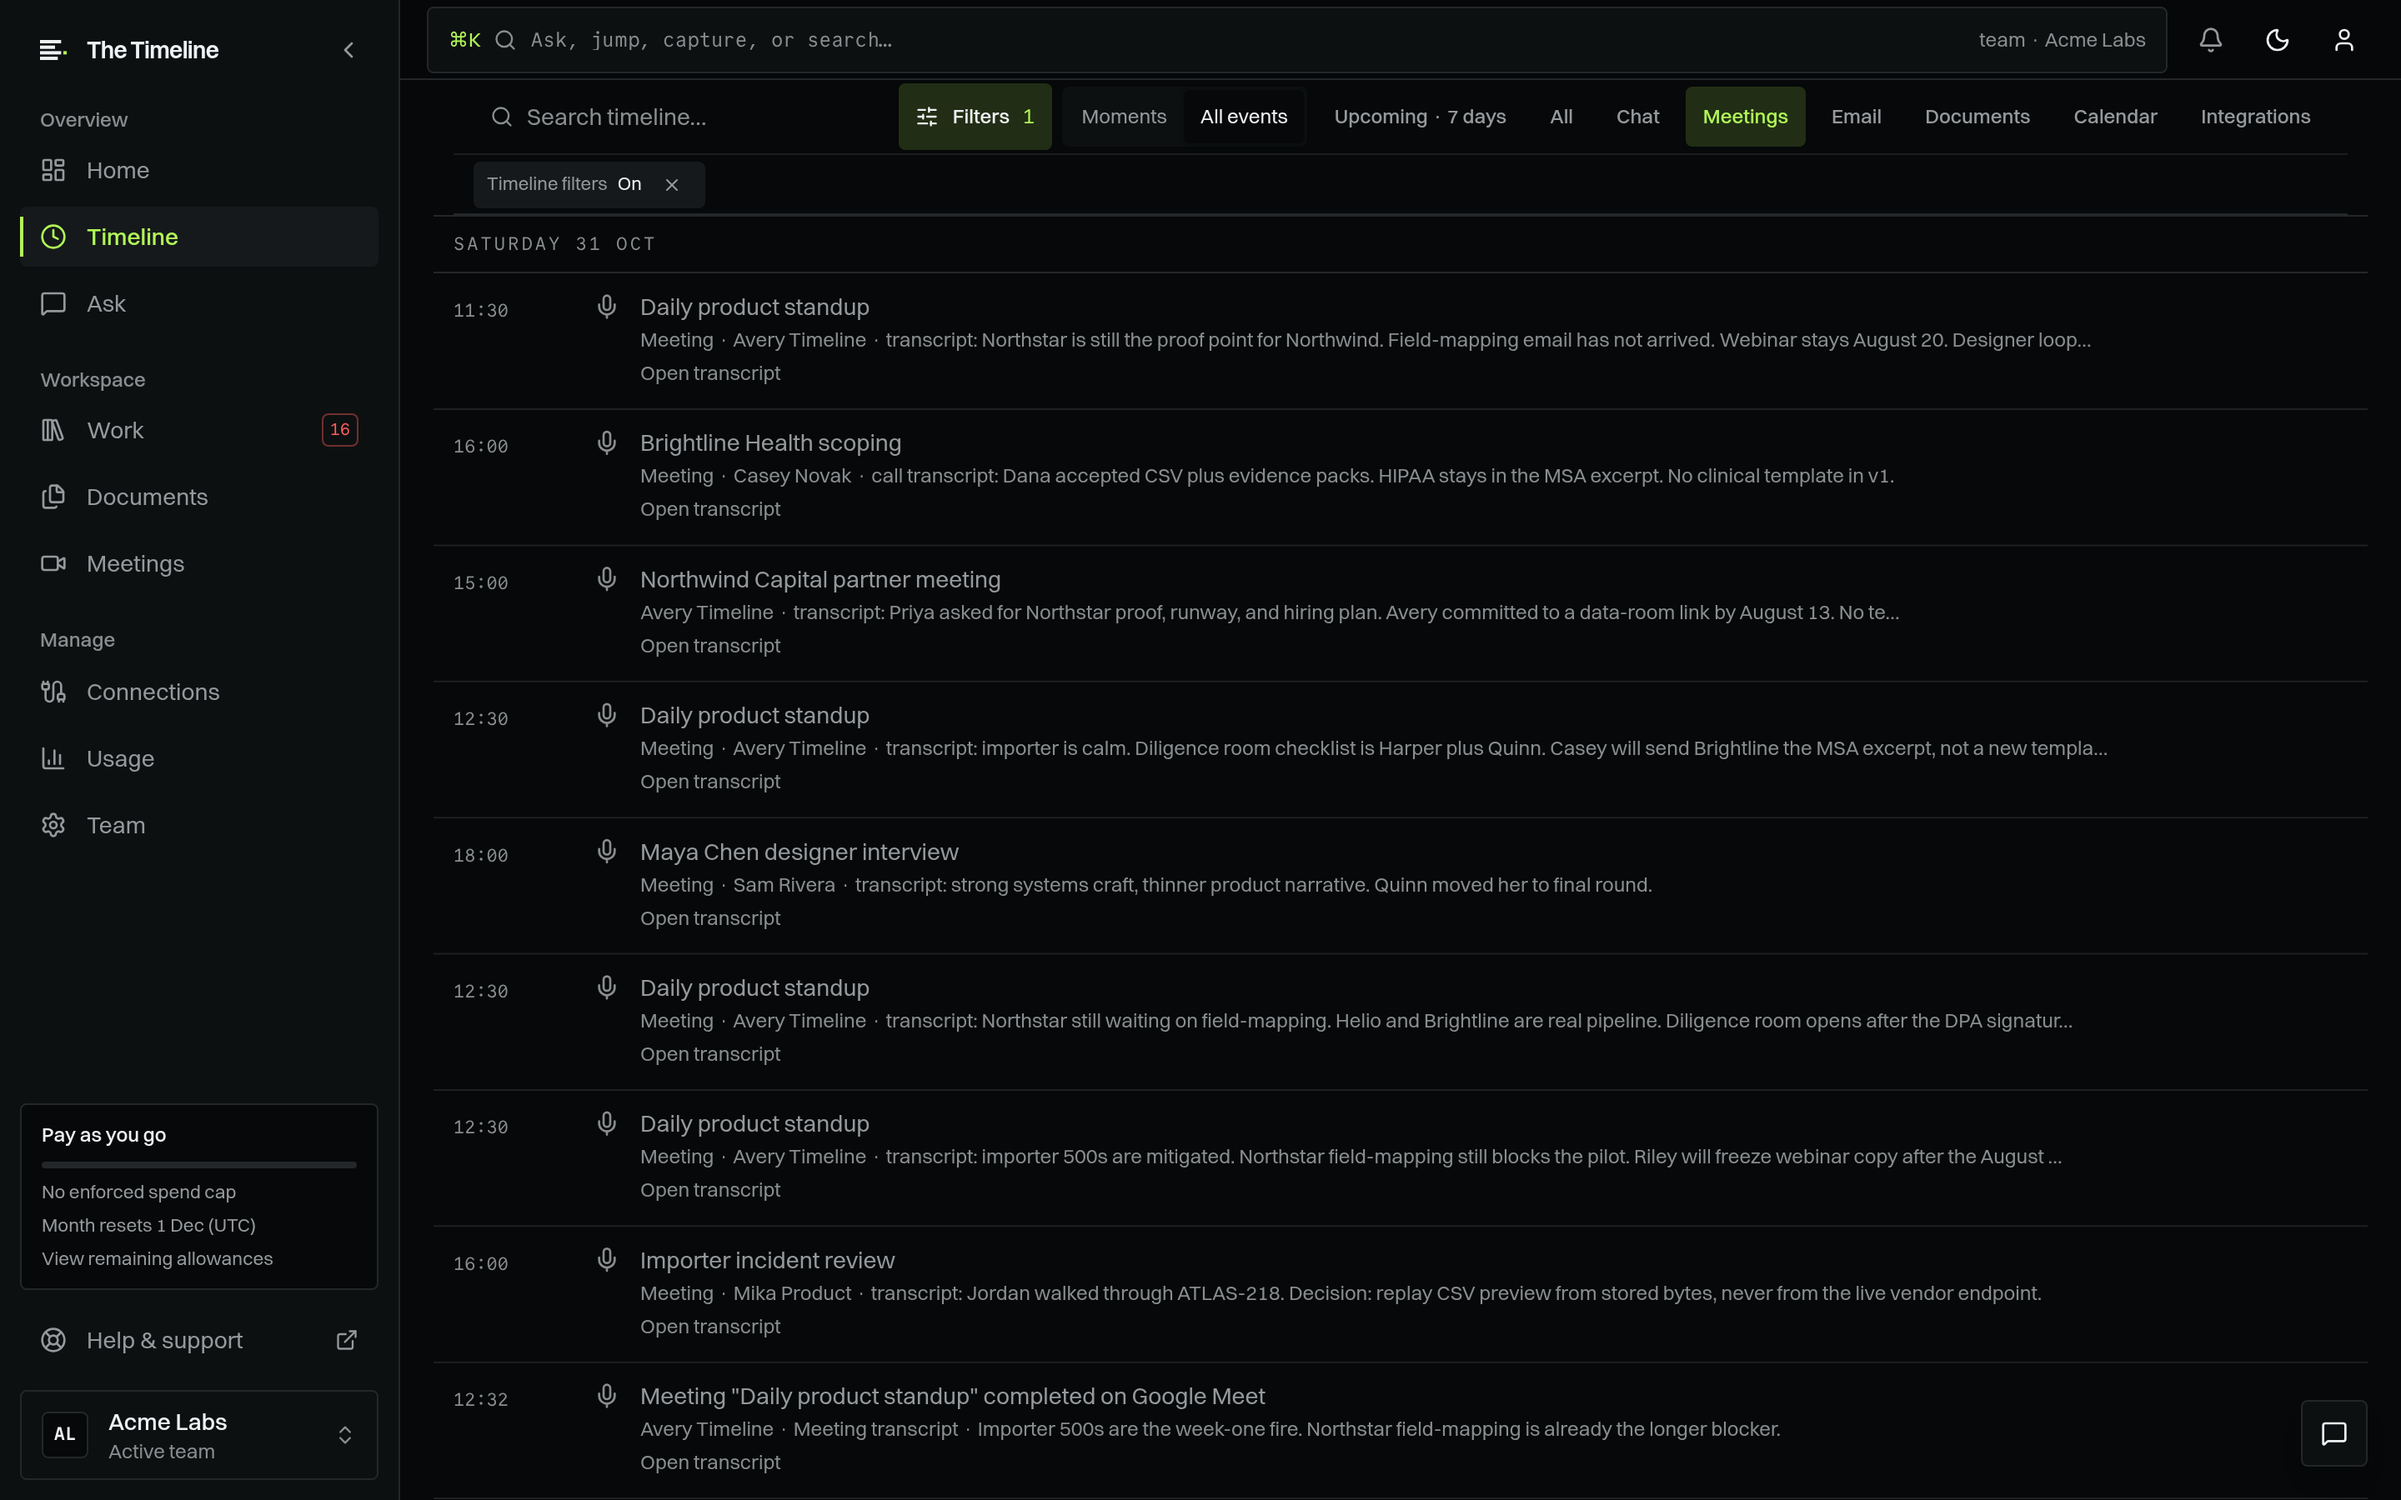
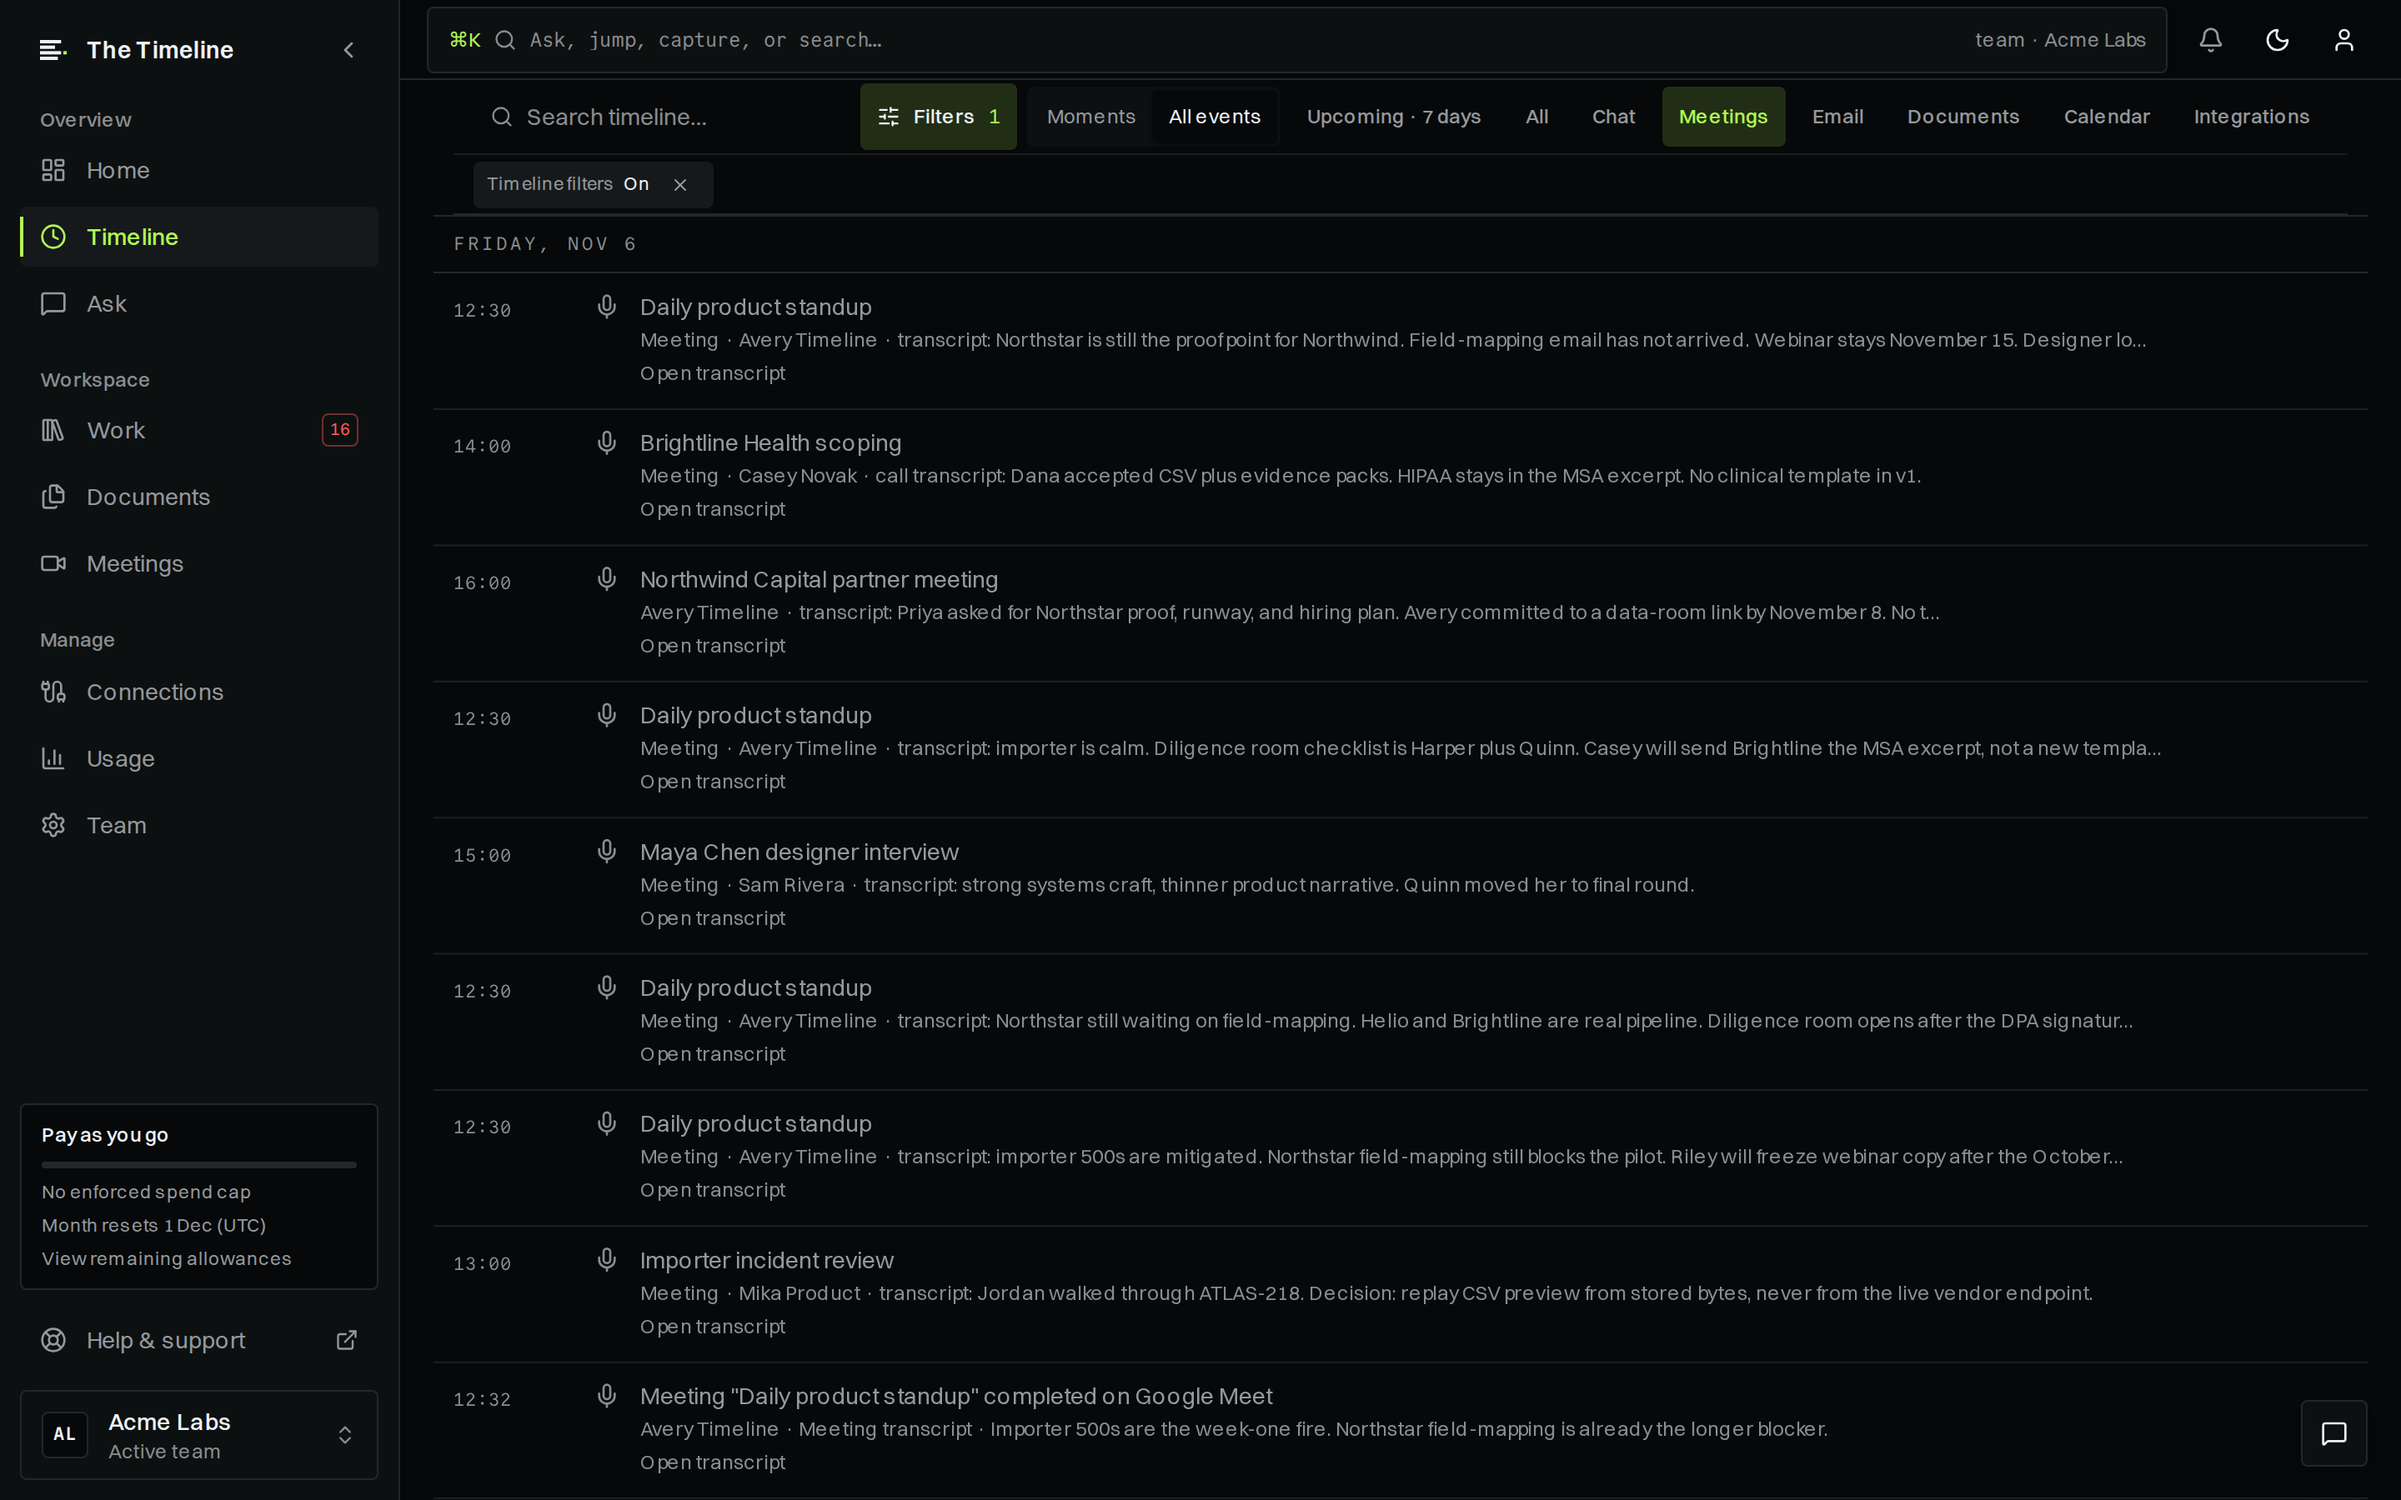
Add light/dark marketing screenshot pairs from the current demo seed.
Recapture every public in-app slot at 1440×900@2x (mobile 390×844@2x) in one Playwright run so light and dark twins share route, framing, UI state, and seed clock. Keep inventory filenames working; leave product-screenshot wiring for a follow-up.

diff --git a/apps/web/public/marketing/screenshots/README.md b/apps/web/public/marketing/screenshots/README.md
@@ -1,8 +1,35 @@
 # Product screenshots
 
-Place the Product Screenshots files named in the website copy plan here, using the exact filenames (for example `11-timeline-dark.png`).
+Place the Product Screenshots files named in the website copy plan here, using
+the exact filenames (for example `11-timeline-dark.png`). Public slots now also
+keep a matching `<stem>-light.png` twin so a later theme-aware component can
+swap without recapture.
 
-Marketing pages look up each file by name and serve that PNG as-is. If a file is missing, the page shows a labeled placeholder with that filename so the slot stays easy to swap. `screenshot-inventory.test.ts` also fails when any referenced public marketing file is absent, so a missing asset cannot ship as a silent placeholder.
+Marketing pages currently look up each inventory filename and serve that PNG
+as-is. If a file is missing, the page shows a labeled placeholder with that
+filename so the slot stays easy to swap. `screenshot-inventory.test.ts` also
+fails when any referenced public marketing file is absent, so a missing asset
+cannot ship as a silent placeholder.
 
-Do not commit customer data. The committed set is from a fictional Acme Labs `demo:seed` capture (November 2026 numbered citations). Recapture overdue, dealflow, Ask, and Agent tools slots from a current seed rather than keeping August/clipped library files. Ask screenshots are stored examples from that demo. Keep the fictional-example label on every public product shot.
+Do not commit customer data. The committed set is from a fictional Acme Labs
+`demo:seed` capture (November 2026 numbered citations). Recapture overdue,
+dealflow, Ask, and Agent tools slots from a current seed rather than keeping
+August/clipped library files. Ask screenshots are stored examples from that
+demo. Keep the fictional-example label on every public product shot.
 
+## Recapture
+
+Export the root `.env`, run `bun run db:migrate` and `bun run demo:seed` (or
+`bun run dev:seed` when vectors are not needed), start the web app, then:
+
+```bash
+bun run capture:marketing-screenshots
+```
+
+Desktop shots are 1440×900 at device scale 2 (2880×1800 RGB PNG). Mobile shots
+are 390×844 at device scale 2 (780×1688). Both themes are captured in one run
+so light/dark pairs share the seed clock, route, framing, and UI state. The
+script also copies the dark mobile files onto the unthemed
+`53-timeline-mobile.png` / `54-ask-recap-mobile.png` names still referenced by
+inventory. Copy the PNGs from `/tmp/marketing-screenshots` into this directory.
+Public slots serve the committed PNG bytes unoptimized.

diff --git a/design.md b/design.md
@@ -1,7 +1,7 @@
 # The Timeline — Design System
 
-**Version:** v3.40 · Drive Limited Use disclosure and public product screenshots (2026-11-07).
-Replaces v3.39 Drive Limited Use disclosure and v3.39 Public product screenshots.
+**Version:** v3.41 · Public product screenshot light/dark twins (2026-11-09).
+Replaces v3.40 Drive Limited Use disclosure and public product screenshots.
 
 This is the visual and interaction contract for the product. If a screen
 disagrees with it, fix the screen. If the language intentionally changes,
@@ -1048,10 +1048,14 @@ at `/solutions/client-project-handoffs` with related use-case links. `/product-t
 is a screenshot walkthrough linked from the home hero as See it first and from
 pricing; `/integrations/telegram` is the public Telegram capture page. Product
 screenshots live in `apps/web/public/marketing/screenshots` under the filenames
-from the website copy plan. Landscape slots use a 16×10 top crop; mobile
-portrait slots keep the full capture so Ask citations stay in frame. The
-homepage shows three full-width proof shots (work record, stored cited Ask
-answer, daily update). `/agents` pairs the current Agent tools screen with a
+from the website copy plan. Each public in-app slot keeps a matching
+`<stem>-light.png` / `<stem>-dark.png` pair from the same `demo:seed` capture
+(1440×900 at 2×; mobile 390×844 at 2×). Inventory still points at the current
+slot filenames (almost all dark, plus `18-sources-light.png` and unthemed
+mobile names); theme-aware switching is a follow-up. Landscape slots use a
+16×10 top crop; mobile portrait slots keep the full capture so Ask citations
+stay in frame. The homepage shows three full-width proof shots (work record,
+stored cited Ask answer, daily update). `/agents` pairs the current Agent tools screen with a
 write-in / read-out diagram for external agents. `/integrations/mcp` has a
 separate inbound live-lookup diagram for The Timeline Agent calling third-party
 MCP tools. `/use-cases` opens with a conversations → work record → six jobs

diff --git a/AGENTS.md b/AGENTS.md
@@ -257,7 +257,10 @@ Treat this file as an operating contract for agents, not a loose README.
   providers. Live daily-digest send stays off; historical digest rows are still seeded.
   Keep the credential list and glossary in
   [docs/demo-corpus.md](docs/demo-corpus.md) current when
-  the seed changes.
+  the seed changes. Recapture public marketing screenshot light/dark pairs with
+  `bun run capture:marketing-screenshots` against that seed and a running web
+  app; copy the PNGs into
+  [`apps/web/public/marketing/screenshots`](apps/web/public/marketing/screenshots/README.md).
 - **Monday helper-board repair is dry-run first.** Use `bun run repair:monday --
   --env-file=/path/to/.env --team-id=<uuid> --user-id=<uuid>` to inspect stale
   classic helper-board state. Add `--apply` only after reviewing the team-scoped

diff --git a/todo.md b/todo.md
@@ -317,6 +317,11 @@ disclosures. Use sentence-case Switzer headings outside explicit audit indexes.
       a modal sheet. Home still hands questions into `/app/chat`. Full Ask
       shows linked context badges. `search_app_guide` / `get_app_route` cover
       the float; Telegram and suggestions stay out.
+- [ ] Public marketing screenshots: every public in-app slot now has a
+      matching `<stem>-light.png` / `<stem>-dark.png` pair from one
+      `demo:seed` capture (`bun run capture:marketing-screenshots`). Wire
+      `MarketingProductScreenshot` to the theme class without layout shift
+      or double download; keep inventory filenames working until that lands.
 
 ## Workspace Reconciliation
 
